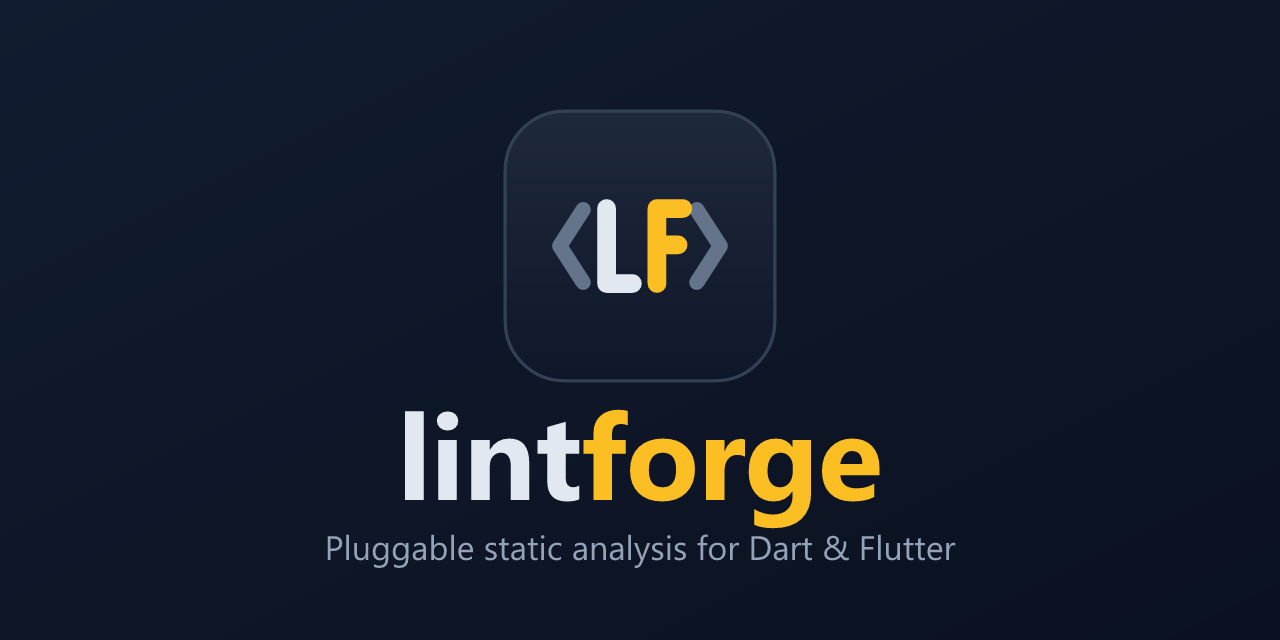
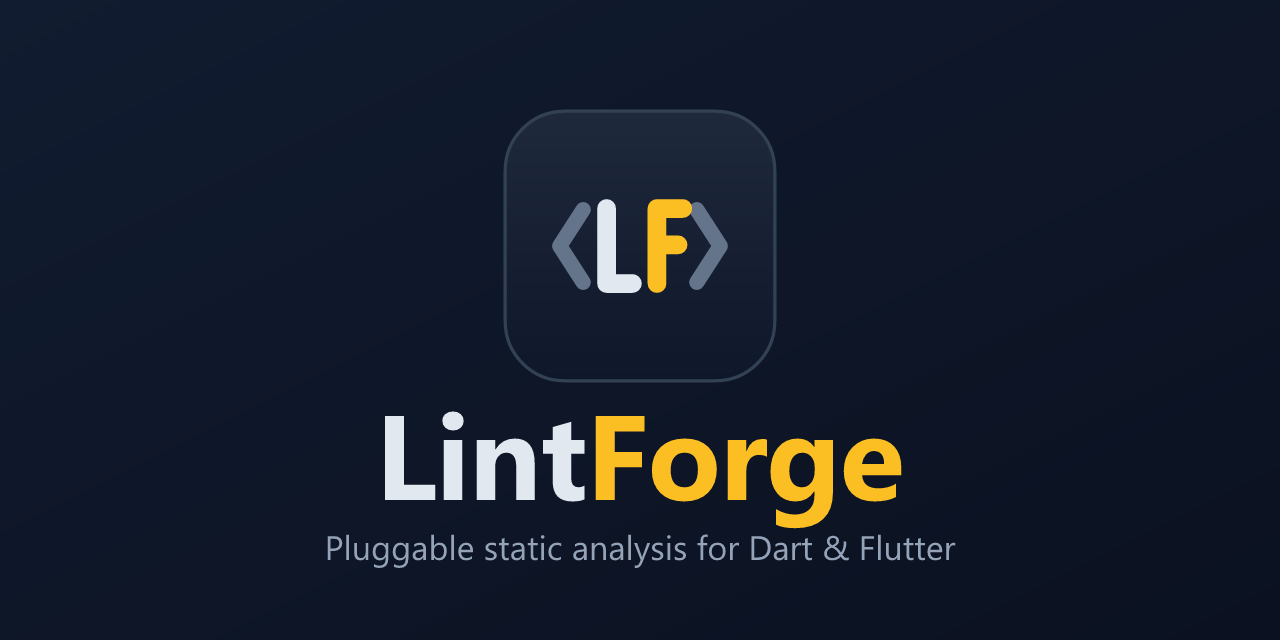
docs(brand): use LintForge display name across UI and docs
Present the product name as "LintForge" (capital L and F) everywhere a
human reads it, while leaving all technical identifiers lowercase.

- logo wordmark (banner + social): lint|forge -> Lint|Forge; the mark's
  <LF> monogram was already capitalised. SVG aria-labels updated too.
- README, lib/ dartdoc, and the community health files (CONTRIBUTING,
  CODE_OF_CONDUCT, SECURITY): product-name prose -> LintForge, dropping
  the inline-code backticks where the name is used as a proper noun.
- pubspec description and the CLI --help banner now lead with LintForge.

Unchanged (stay lowercase): the package name, package:lintforge imports,
the dart run lintforge command, LintforgeOptions, repo/badge URLs, the
#why-lintforge anchor, and asset filenames.

Changed region(s): [[0.2812, 0.625, 0.7188, 0.8438]]

diff --git a/bin/lintforge.dart b/bin/lintforge.dart
@@ -139,7 +139,7 @@ LintforgeOptions _buildOptions(ArgResults parsed) {
 String _usage(ArgParser parser) {
   return 'Usage: dart run lintforge [options] [paths...]\n'
       '\n'
-      'Static analysis frame for Dart and Flutter projects.\n'
+      'LintForge — static analysis for Dart and Flutter projects.\n'
       '\n'
       'Options:\n'
       '${parser.usage}';

diff --git a/lib/lintforge.dart b/lib/lintforge.dart
@@ -1,4 +1,4 @@
-/// `lintforge` is a pluggable static analysis framework for Dart and Flutter
+/// LintForge is a pluggable static analysis framework for Dart and Flutter
 /// projects.
 ///
 /// This library re-exports the package's public surface: the [AnalyzerRule]

diff --git a/README.md b/README.md
@@ -1,8 +1,8 @@
 <p align="center">
-  <img src="https://raw.githubusercontent.com/lezli01/lintforge/master/.github/assets/lintforge-mark.png" alt="lintforge logo" width="96">
+  <img src="https://raw.githubusercontent.com/lezli01/lintforge/master/.github/assets/lintforge-mark.png" alt="LintForge logo" width="96">
 </p>
 
-<h1 align="center">lintforge</h1>
+<h1 align="center">LintForge</h1>
 
 <p align="center">
   <strong>Pluggable static analysis for Dart &amp; Flutter — write custom lint rules as plain Dart classes.</strong>
@@ -31,14 +31,14 @@
 
 ---
 
-## Why lintforge?
+## Why LintForge?
 
 Adding a custom static check to a Dart or Flutter project usually means authoring
 a full analyzer plugin: a separate package, a plugin isolate, the analyzer plugin
 protocol, and a release cycle of its own. That is a lot of ceremony for "flag this
 one project-specific pattern."
 
-lintforge is the lighter alternative — a framework that supplies the contracts, a
+LintForge is the lighter alternative — a framework that supplies the contracts, a
 rule registry, a single-file and multi-file runner, and a CLI, so a custom rule is
 just a plain Dart class that inspects a fully resolved AST and yields diagnostics.
 It ships with a growing set of built-in `unused_*` rules, and because it is itself
@@ -51,7 +51,7 @@ It is released under the [MIT License](LICENSE) and created by `lezli01` at
 
 ## Features
 
-Point lintforge at a package and it treats writing and running custom analysis as
+Point LintForge at a package and it treats writing and running custom analysis as
 first-class, plain-Dart work:
 
 - **Rules as plain Dart classes.** Implement `AnalyzerRule` for file-local checks
@@ -100,10 +100,10 @@ dart run lintforge [options] [paths...]
 ```
 
 <p align="center">
-  <img src="https://raw.githubusercontent.com/lezli01/lintforge/master/.github/assets/lintforge-cli.png" alt="Example lintforge CLI output reporting unused_function, unused_class, and unused_source_file findings with file locations" width="820">
+  <img src="https://raw.githubusercontent.com/lezli01/lintforge/master/.github/assets/lintforge-cli.png" alt="Example LintForge CLI output reporting unused_function, unused_class, and unused_source_file findings with file locations" width="820">
 </p>
 
-When no paths are provided, `lintforge` inspects `lib/`, `bin/`, and `test/`.
+When no paths are provided, LintForge inspects `lib/`, `bin/`, and `test/`.
 
 Options:
 
@@ -117,10 +117,10 @@ Options:
 - `--no-default-excludes`: disable the built-in default exclude patterns.
   Use `--exclude` to list any patterns you still want excluded.
 
-By default, `lintforge` excludes generated files and tool/build caches that
+By default, LintForge excludes generated files and tool/build caches that
 consumer projects almost never want to lint: `*.g.dart`, `*.freezed.dart`,
 `**/.dart_tool/**`, and `**/build/**`. The two directory patterns mirror
-the canonical Dart/Flutter ignore set, so running `lintforge` against a project
+the canonical Dart/Flutter ignore set, so running LintForge against a project
 root will not flag Flutter-generated registrants under `.dart_tool/` or
 build artefacts under `build/`. Exclude patterns are matched against the
 file's basename, its path relative to the current working directory, and
@@ -131,7 +131,7 @@ entirely:
 dart run lintforge --no-default-excludes
 ```
 
-List the rules shipped with `lintforge` — each entry shows the rule id,
+List the rules shipped with LintForge — each entry shows the rule id,
 severity, and a one-line description, one rule per line:
 
 ```sh
@@ -193,7 +193,7 @@ Per built-in rule:
 
 ## Built-In Rules
 
-`lintforge` ships with the following rules enabled by default. To turn one off, pass
+LintForge ships with the following rules enabled by default. To turn one off, pass
 `--rules` with a list that omits it.
 
 ### `unused_function`
@@ -513,7 +513,7 @@ fvm dart pub publish --dry-run
 
 ## Project Status
 
-`lintforge` is pre-1.0.0. The framework — rule contracts, the registry, the
+LintForge is pre-1.0.0. The framework — rule contracts, the registry, the
 single-file and multi-file runners, the CLI, and the built-in `unused_function`,
 `unused_class`, and `unused_source_file` rules — is working today and exercised by
 the sample projects under [`samples/`](samples/). Public APIs may still change
@@ -525,7 +525,7 @@ planned.
 ## Contributing
 
 Contributions of every size are welcome — bug reports, docs, new rules, test
-cases, and features. lintforge is itself a static-analysis package, so it holds
+cases, and features. LintForge is itself a static-analysis package, so it holds
 its own sources to the rules it ships; keeping that bar is part of the work. Start
 here:
 
@@ -545,7 +545,7 @@ are in [CONTRIBUTING.md](CONTRIBUTING.md).
 
 ## Security
 
-lintforge runs locally as a development dependency: it reads your source, resolves
+LintForge runs locally as a development dependency: it reads your source, resolves
 it with `package:analyzer`, and prints diagnostics. It performs no network access
 and never executes the code it analyzes, so its attack surface is small — but
 security reports are taken seriously. Please report suspected vulnerabilities
@@ -554,4 +554,4 @@ than a public issue. See [SECURITY.md](SECURITY.md) for details.
 
 ## License
 
-`lintforge` is released under the [MIT License](LICENSE). © 2026 lezli01.
+LintForge is released under the [MIT License](LICENSE). © 2026 lezli01.

diff --git a/CODE_OF_CONDUCT.md b/CODE_OF_CONDUCT.md
@@ -1,6 +1,6 @@
 # Code of Conduct
 
-`lintforge` aims to be a welcoming, practical project for people building better
+LintForge aims to be a welcoming, practical project for people building better
 Dart and Flutter tooling.
 
 ## Expected Behavior

diff --git a/CONTRIBUTING.md b/CONTRIBUTING.md
@@ -1,6 +1,6 @@
 # Contributing
 
-Thanks for taking the time to improve `lintforge`.
+Thanks for taking the time to improve LintForge.
 
 ## Development Setup
 

diff --git a/SECURITY.md b/SECURITY.md
@@ -2,7 +2,7 @@
 
 ## Supported Versions
 
-`lintforge` is pre-1.0.0. Security fixes are provided for the latest published
+LintForge is pre-1.0.0. Security fixes are provided for the latest published
 version only.
 
 | Version | Supported |